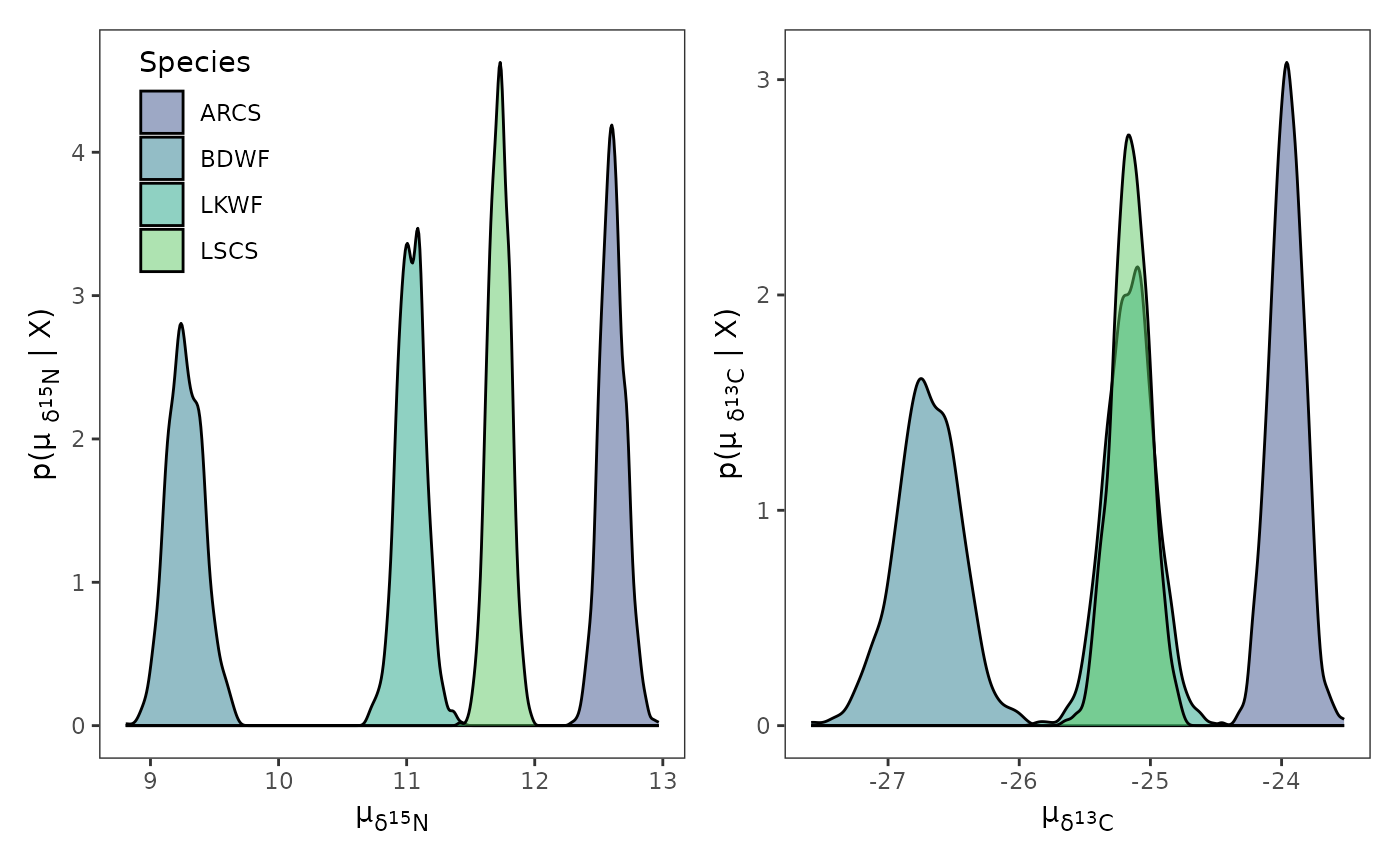
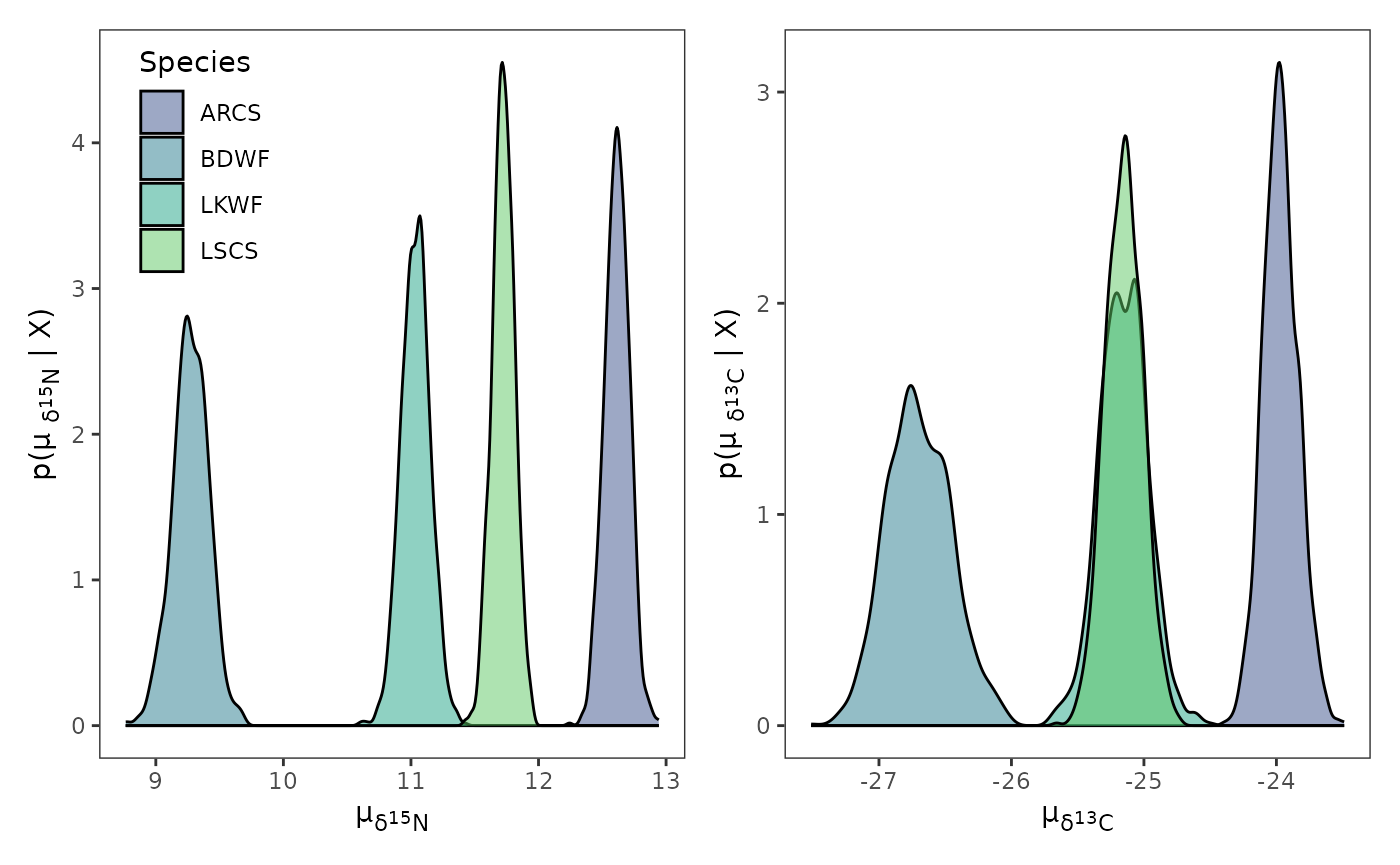
Deploying to gh-pages from @ benjaminhlina/nichetools@5e8c7eb0fe7763667dbc332bf1a5b6cc1b0e24cb 🚀

diff --git a/reference/extract_mu.html b/reference/extract_mu.html
@@ -1,7 +1,9 @@
 <!DOCTYPE html>
-<!-- Generated by pkgdown: do not edit by hand --><html lang="en"><head><meta http-equiv="Content-Type" content="text/html; charset=UTF-8"><meta charset="utf-8"><meta http-equiv="X-UA-Compatible" content="IE=edge"><meta name="viewport" content="width=device-width, initial-scale=1, shrink-to-fit=no"><meta name="description" content="Extract Bayesian estimates of \(\mu\) from the function niw.post() in the package
-nicheROVER."><title>extract \(\mu\) — extract_mu • nichetools</title><script src="../deps/jquery-3.6.0/jquery-3.6.0.min.js"></script><meta name="viewport" content="width=device-width, initial-scale=1, shrink-to-fit=no"><link href="../deps/bootstrap-5.3.1/bootstrap.min.css" rel="stylesheet"><script src="../deps/bootstrap-5.3.1/bootstrap.bundle.min.js"></script><!-- Font Awesome icons --><link rel="stylesheet" href="https://cdnjs.cloudflare.com/ajax/libs/font-awesome/5.12.1/css/all.min.css" integrity="sha256-mmgLkCYLUQbXn0B1SRqzHar6dCnv9oZFPEC1g1cwlkk=" crossorigin="anonymous"><link rel="stylesheet" href="https://cdnjs.cloudflare.com/ajax/libs/font-awesome/5.12.1/css/v4-shims.min.css" integrity="sha256-wZjR52fzng1pJHwx4aV2AO3yyTOXrcDW7jBpJtTwVxw=" crossorigin="anonymous"><!-- bootstrap-toc --><script src="https://cdn.jsdelivr.net/gh/afeld/bootstrap-toc@v1.0.1/dist/bootstrap-toc.min.js" integrity="sha256-4veVQbu7//Lk5TSmc7YV48MxtMy98e26cf5MrgZYnwo=" crossorigin="anonymous"></script><!-- headroom.js --><script src="https://cdnjs.cloudflare.com/ajax/libs/headroom/0.11.0/headroom.min.js" integrity="sha256-AsUX4SJE1+yuDu5+mAVzJbuYNPHj/WroHuZ8Ir/CkE0=" crossorigin="anonymous"></script><script src="https://cdnjs.cloudflare.com/ajax/libs/headroom/0.11.0/jQuery.headroom.min.js" integrity="sha256-ZX/yNShbjqsohH1k95liqY9Gd8uOiE1S4vZc+9KQ1K4=" crossorigin="anonymous"></script><!-- clipboard.js --><script src="https://cdnjs.cloudflare.com/ajax/libs/clipboard.js/2.0.11/clipboard.min.js" integrity="sha512-7O5pXpc0oCRrxk8RUfDYFgn0nO1t+jLuIOQdOMRp4APB7uZ4vSjspzp5y6YDtDs4VzUSTbWzBFZ/LKJhnyFOKw==" crossorigin="anonymous" referrerpolicy="no-referrer"></script><!-- search --><script src="https://cdnjs.cloudflare.com/ajax/libs/fuse.js/6.4.6/fuse.js" integrity="sha512-zv6Ywkjyktsohkbp9bb45V6tEMoWhzFzXis+LrMehmJZZSys19Yxf1dopHx7WzIKxr5tK2dVcYmaCk2uqdjF4A==" crossorigin="anonymous"></script><script src="https://cdnjs.cloudflare.com/ajax/libs/autocomplete.js/0.38.0/autocomplete.jquery.min.js" integrity="sha512-GU9ayf+66Xx2TmpxqJpliWbT5PiGYxpaG8rfnBEk1LL8l1KGkRShhngwdXK1UgqhAzWpZHSiYPc09/NwDQIGyg==" crossorigin="anonymous"></script><script src="https://cdnjs.cloudflare.com/ajax/libs/mark.js/8.11.1/mark.min.js" integrity="sha512-5CYOlHXGh6QpOFA/TeTylKLWfB3ftPsde7AnmhuitiTX4K5SqCLBeKro6sPS8ilsz1Q4NRx3v8Ko2IBiszzdww==" crossorigin="anonymous"></script><!-- pkgdown --><script src="../pkgdown.js"></script><meta property="og:title" content="extract \(\mu\) — extract_mu"><meta property="og:description" content="Extract Bayesian estimates of \(\mu\) from the function niw.post() in the package
-nicheROVER."><!-- mathjax --><script src="https://cdnjs.cloudflare.com/ajax/libs/mathjax/2.7.5/MathJax.js" integrity="sha256-nvJJv9wWKEm88qvoQl9ekL2J+k/RWIsaSScxxlsrv8k=" crossorigin="anonymous"></script><script src="https://cdnjs.cloudflare.com/ajax/libs/mathjax/2.7.5/config/TeX-AMS-MML_HTMLorMML.js" integrity="sha256-84DKXVJXs0/F8OTMzX4UR909+jtl4G7SPypPavF+GfA=" crossorigin="anonymous"></script><!--[if lt IE 9]>
+<!-- Generated by pkgdown: do not edit by hand --><html lang="en"><head><meta http-equiv="Content-Type" content="text/html; charset=UTF-8"><meta charset="utf-8"><meta http-equiv="X-UA-Compatible" content="IE=edge"><meta name="viewport" content="width=device-width, initial-scale=1, shrink-to-fit=no"><meta name="description" content="Extract Bayesian estimates of \(\mu\) from data objects created by
+nicheROVER or
+SIBER.."><title>extract \(\mu\) — extract_mu • nichetools</title><script src="../deps/jquery-3.6.0/jquery-3.6.0.min.js"></script><meta name="viewport" content="width=device-width, initial-scale=1, shrink-to-fit=no"><link href="../deps/bootstrap-5.3.1/bootstrap.min.css" rel="stylesheet"><script src="../deps/bootstrap-5.3.1/bootstrap.bundle.min.js"></script><!-- Font Awesome icons --><link rel="stylesheet" href="https://cdnjs.cloudflare.com/ajax/libs/font-awesome/5.12.1/css/all.min.css" integrity="sha256-mmgLkCYLUQbXn0B1SRqzHar6dCnv9oZFPEC1g1cwlkk=" crossorigin="anonymous"><link rel="stylesheet" href="https://cdnjs.cloudflare.com/ajax/libs/font-awesome/5.12.1/css/v4-shims.min.css" integrity="sha256-wZjR52fzng1pJHwx4aV2AO3yyTOXrcDW7jBpJtTwVxw=" crossorigin="anonymous"><!-- bootstrap-toc --><script src="https://cdn.jsdelivr.net/gh/afeld/bootstrap-toc@v1.0.1/dist/bootstrap-toc.min.js" integrity="sha256-4veVQbu7//Lk5TSmc7YV48MxtMy98e26cf5MrgZYnwo=" crossorigin="anonymous"></script><!-- headroom.js --><script src="https://cdnjs.cloudflare.com/ajax/libs/headroom/0.11.0/headroom.min.js" integrity="sha256-AsUX4SJE1+yuDu5+mAVzJbuYNPHj/WroHuZ8Ir/CkE0=" crossorigin="anonymous"></script><script src="https://cdnjs.cloudflare.com/ajax/libs/headroom/0.11.0/jQuery.headroom.min.js" integrity="sha256-ZX/yNShbjqsohH1k95liqY9Gd8uOiE1S4vZc+9KQ1K4=" crossorigin="anonymous"></script><!-- clipboard.js --><script src="https://cdnjs.cloudflare.com/ajax/libs/clipboard.js/2.0.11/clipboard.min.js" integrity="sha512-7O5pXpc0oCRrxk8RUfDYFgn0nO1t+jLuIOQdOMRp4APB7uZ4vSjspzp5y6YDtDs4VzUSTbWzBFZ/LKJhnyFOKw==" crossorigin="anonymous" referrerpolicy="no-referrer"></script><!-- search --><script src="https://cdnjs.cloudflare.com/ajax/libs/fuse.js/6.4.6/fuse.js" integrity="sha512-zv6Ywkjyktsohkbp9bb45V6tEMoWhzFzXis+LrMehmJZZSys19Yxf1dopHx7WzIKxr5tK2dVcYmaCk2uqdjF4A==" crossorigin="anonymous"></script><script src="https://cdnjs.cloudflare.com/ajax/libs/autocomplete.js/0.38.0/autocomplete.jquery.min.js" integrity="sha512-GU9ayf+66Xx2TmpxqJpliWbT5PiGYxpaG8rfnBEk1LL8l1KGkRShhngwdXK1UgqhAzWpZHSiYPc09/NwDQIGyg==" crossorigin="anonymous"></script><script src="https://cdnjs.cloudflare.com/ajax/libs/mark.js/8.11.1/mark.min.js" integrity="sha512-5CYOlHXGh6QpOFA/TeTylKLWfB3ftPsde7AnmhuitiTX4K5SqCLBeKro6sPS8ilsz1Q4NRx3v8Ko2IBiszzdww==" crossorigin="anonymous"></script><!-- pkgdown --><script src="../pkgdown.js"></script><meta property="og:title" content="extract \(\mu\) — extract_mu"><meta property="og:description" content="Extract Bayesian estimates of \(\mu\) from data objects created by
+nicheROVER or
+SIBER.."><!-- mathjax --><script src="https://cdnjs.cloudflare.com/ajax/libs/mathjax/2.7.5/MathJax.js" integrity="sha256-nvJJv9wWKEm88qvoQl9ekL2J+k/RWIsaSScxxlsrv8k=" crossorigin="anonymous"></script><script src="https://cdnjs.cloudflare.com/ajax/libs/mathjax/2.7.5/config/TeX-AMS-MML_HTMLorMML.js" integrity="sha256-84DKXVJXs0/F8OTMzX4UR909+jtl4G7SPypPavF+GfA=" crossorigin="anonymous"></script><!--[if lt IE 9]>
 <script src="https://oss.maxcdn.com/html5shiv/3.7.3/html5shiv.min.js"></script>
 <script src="https://oss.maxcdn.com/respond/1.4.2/respond.min.js"></script>
 <![endif]--></head><body>
@@ -48,24 +50,49 @@ nicheROVER."><!-- mathjax --><script src="https://cdnjs.cloudflare.com/ajax/libs
     </div>
 
     <div class="ref-description section level2">
-    <p>Extract Bayesian estimates of \(\mu\) from the function <code>niw.post()</code> in the package
-<a href="https://cran.r-project.org/web/packages/nicheROVER/index.html" class="external-link">nicheROVER</a>.</p>
+    <p>Extract Bayesian estimates of \(\mu\) from data objects created by
+<a href="https://cran.r-project.org/web/packages/nicheROVER/index.html" class="external-link">nicheROVER</a> or
+<a href="https://cran.r-project.org/web/packages/SIBER/index.html" class="external-link">SIBER</a>..</p>
     </div>
 
     <div class="section level2">
     <h2 id="ref-usage">Usage<a class="anchor" aria-label="anchor" href="#ref-usage"></a></h2>
-    <div class="sourceCode"><pre class="sourceCode r"><code><span><span class="fu">extract_mu</span><span class="op">(</span><span class="va">data</span>, format <span class="op">=</span> <span class="st">"long"</span><span class="op">)</span></span></code></pre></div>
+    <div class="sourceCode"><pre class="sourceCode r"><code><span><span class="fu">extract_mu</span><span class="op">(</span></span>
+<span>  <span class="va">data</span>,</span>
+<span>  pkg <span class="op">=</span> <span class="cn">NULL</span>,</span>
+<span>  isotope_a <span class="op">=</span> <span class="cn">NULL</span>,</span>
+<span>  isotope_b <span class="op">=</span> <span class="cn">NULL</span>,</span>
+<span>  data_format <span class="op">=</span> <span class="cn">NULL</span></span>
+<span><span class="op">)</span></span></code></pre></div>
     </div>
 
     <div class="section level2">
     <h2 id="arguments">Arguments<a class="anchor" aria-label="anchor" href="#arguments"></a></h2>
     <dl><dt>data</dt>
-<dd><p>a <code>list</code> created by the function <code>niw.post()</code> in the package
-<a href="https://cran.r-project.org/web/packages/nicheROVER/index.html" class="external-link">nicheROVER</a>.</p></dd>
+<dd><p>a <code>list</code> created by the function <code>niw.post()</code> or <code>siberMVN()</code>
+in the package
+<a href="https://cran.r-project.org/web/packages/nicheROVER/index.html" class="external-link">nicheROVER</a>
+or <a href="https://cran.r-project.org/web/packages/SIBER/index.html" class="external-link">SIBER</a>, respectfully.</p></dd>
 
 
-<dt>format</dt>
-<dd><p>a <code>character</code> that decided whether the returned object is
+<dt>pkg</dt>
+<dd><p>a <code>character</code> string that is the name of the package that
+you're using. Defaults to <code>"nicheROVER"</code>.
+Alternatively the user can supply the argument with <code>"SIBER"</code>.</p></dd>
+
+
+<dt>isotope_a</dt>
+<dd><p>a <code>character</code> string to change the column name
+of the first isotope used in the analysis. Defaults to <code>"d13c"</code>.</p></dd>
+
+
+<dt>isotope_b</dt>
+<dd><p>a <code>character</code> string to change the name of second isotope
+used in the analysis. Defaults to <code>"d15n"</code>.</p></dd>
+
+
+<dt>data_format</dt>
+<dd><p>a <code>character</code> string that decided whether the returned object is
 in long or wide format. Default is <code>"long"</code>, with the alternative supplied
 being <code>"wide"</code>.</p></dd>
 
@@ -74,16 +101,19 @@ being <code>"wide"</code>.</p></dd>
     <h2 id="value">Value<a class="anchor" aria-label="anchor" href="#value"></a></h2>
     
 
-<p>Returns a <code>tibble</code> of extracted estimates of \(\mu\) that are created by
-the function <code>niw.post()</code> in the package
+<p>Returns a <code>tibble</code> of extracted estimates of \(\mu\) created by the
+function <code>niw.post()</code> or <code>siberMVN()</code> in the packages
 <a href="https://cran.r-project.org/web/packages/nicheROVER/index.html" class="external-link">nicheROVER</a>.
-The <code>tibble</code> will contain five columns in the following order, <code>metric</code>,
+and <a href="https://cran.r-project.org/web/packages/SIBER/index.html" class="external-link">SIBER</a>.</p>
+
+
+<p>The <code>tibble</code> will contain five columns in the following order, <code>metric</code>,
 <code>sample_name</code>, <code>sample_number</code>, and the names of the isotope
 columns supplied to <code>niw.post()</code> (e.g., <code>d15n</code> and <code>d13c</code>).</p>
     </div>
     <div class="section level2">
     <h2 id="see-also">See also<a class="anchor" aria-label="anchor" href="#see-also"></a></h2>
-    <div class="dont-index"><p><code><a href="https://rdrr.io/pkg/nicheROVER/man/niw.post.html" class="external-link">nicheROVER::niw.post()</a></code></p></div>
+    <div class="dont-index"><p><code><a href="https://rdrr.io/pkg/nicheROVER/man/niw.post.html" class="external-link">nicheROVER::niw.post()</a></code> and <code><a href="https://rdrr.io/pkg/SIBER/man/siberMVN.html" class="external-link">SIBER::siberMVN()</a></code></p></div>
     </div>
 
     <div class="section level2">
@@ -94,16 +124,16 @@ columns supplied to <code>niw.post()</code> (e.g., <code>d15n</code> and <code>d
 <span class="r-out co"><span class="r-pr">#&gt;</span> <span style="color: #949494;"># A tibble: 8,000 × 5</span></span>
 <span class="r-out co"><span class="r-pr">#&gt;</span>    metric sample_name sample_number isotope mu_est</span>
 <span class="r-out co"><span class="r-pr">#&gt;</span>    <span style="color: #949494; font-style: italic;">&lt;chr&gt;</span>  <span style="color: #949494; font-style: italic;">&lt;chr&gt;</span>               <span style="color: #949494; font-style: italic;">&lt;int&gt;</span> <span style="color: #949494; font-style: italic;">&lt;chr&gt;</span>    <span style="color: #949494; font-style: italic;">&lt;dbl&gt;</span></span>
-<span class="r-out co"><span class="r-pr">#&gt;</span> <span style="color: #BCBCBC;"> 1</span> mu     ARCS                    1 d15n      12.6</span>
-<span class="r-out co"><span class="r-pr">#&gt;</span> <span style="color: #BCBCBC;"> 2</span> mu     ARCS                    1 d13c     -<span style="color: #BB0000;">24.0</span></span>
-<span class="r-out co"><span class="r-pr">#&gt;</span> <span style="color: #BCBCBC;"> 3</span> mu     ARCS                    2 d15n      12.7</span>
-<span class="r-out co"><span class="r-pr">#&gt;</span> <span style="color: #BCBCBC;"> 4</span> mu     ARCS                    2 d13c     -<span style="color: #BB0000;">23.9</span></span>
-<span class="r-out co"><span class="r-pr">#&gt;</span> <span style="color: #BCBCBC;"> 5</span> mu     ARCS                    3 d15n      12.6</span>
-<span class="r-out co"><span class="r-pr">#&gt;</span> <span style="color: #BCBCBC;"> 6</span> mu     ARCS                    3 d13c     -<span style="color: #BB0000;">23.8</span></span>
-<span class="r-out co"><span class="r-pr">#&gt;</span> <span style="color: #BCBCBC;"> 7</span> mu     ARCS                    4 d15n      12.5</span>
-<span class="r-out co"><span class="r-pr">#&gt;</span> <span style="color: #BCBCBC;"> 8</span> mu     ARCS                    4 d13c     -<span style="color: #BB0000;">23.9</span></span>
-<span class="r-out co"><span class="r-pr">#&gt;</span> <span style="color: #BCBCBC;"> 9</span> mu     ARCS                    5 d15n      12.4</span>
-<span class="r-out co"><span class="r-pr">#&gt;</span> <span style="color: #BCBCBC;">10</span> mu     ARCS                    5 d13c     -<span style="color: #BB0000;">24.0</span></span>
+<span class="r-out co"><span class="r-pr">#&gt;</span> <span style="color: #BCBCBC;"> 1</span> mu     ARCS                    1 d13c     -<span style="color: #BB0000;">23.8</span></span>
+<span class="r-out co"><span class="r-pr">#&gt;</span> <span style="color: #BCBCBC;"> 2</span> mu     ARCS                    1 d15n      12.6</span>
+<span class="r-out co"><span class="r-pr">#&gt;</span> <span style="color: #BCBCBC;"> 3</span> mu     ARCS                    2 d13c     -<span style="color: #BB0000;">23.7</span></span>
+<span class="r-out co"><span class="r-pr">#&gt;</span> <span style="color: #BCBCBC;"> 4</span> mu     ARCS                    2 d15n      12.6</span>
+<span class="r-out co"><span class="r-pr">#&gt;</span> <span style="color: #BCBCBC;"> 5</span> mu     ARCS                    3 d13c     -<span style="color: #BB0000;">24.2</span></span>
+<span class="r-out co"><span class="r-pr">#&gt;</span> <span style="color: #BCBCBC;"> 6</span> mu     ARCS                    3 d15n      12.4</span>
+<span class="r-out co"><span class="r-pr">#&gt;</span> <span style="color: #BCBCBC;"> 7</span> mu     ARCS                    4 d13c     -<span style="color: #BB0000;">24.1</span></span>
+<span class="r-out co"><span class="r-pr">#&gt;</span> <span style="color: #BCBCBC;"> 8</span> mu     ARCS                    4 d15n      12.7</span>
+<span class="r-out co"><span class="r-pr">#&gt;</span> <span style="color: #BCBCBC;"> 9</span> mu     ARCS                    5 d13c     -<span style="color: #BB0000;">23.9</span></span>
+<span class="r-out co"><span class="r-pr">#&gt;</span> <span style="color: #BCBCBC;">10</span> mu     ARCS                    5 d15n      12.6</span>
 <span class="r-out co"><span class="r-pr">#&gt;</span> <span style="color: #949494;"># ℹ 7,990 more rows</span></span>
 <span class="r-in"><span></span></span>
 </code></pre></div>

diff --git a/reference/extract_sigma.html b/reference/extract_sigma.html
@@ -83,12 +83,12 @@ Alternatively the user can supply the argument with <code>"SIBER"</code>.</p></d
 
 <dt>isotope_a</dt>
 <dd><p>a <code>character</code> string to change the column name
-of the first isotope used in the analysis. Defaults to <code>"d15n"</code>.</p></dd>
+of the first isotope used in the analysis. Defaults to <code>"d13c"</code>.</p></dd>
 
 
 <dt>isotope_b</dt>
 <dd><p>a <code>character</code> string to change the name of second isotope
-used in the analysis. Defaults to <code>"d13c"</code>.</p></dd>
+used in the analysis. Defaults to <code>"d15n"</code>.</p></dd>
 
 
 <dt>data_format</dt>
@@ -124,18 +124,18 @@ and the posterior sample for \(\Sigma\) (i.e., <code>post_sample</code>).</p>
 <span class="r-in"><span>data <span class="op">=</span> <span class="va">niw_fish_post</span></span></span>
 <span class="r-in"><span><span class="op">)</span></span></span>
 <span class="r-out co"><span class="r-pr">#&gt;</span> <span style="color: #949494;"># A tibble: 8,000 × 6</span></span>
-<span class="r-out co"><span class="r-pr">#&gt;</span>    metric sample_name isotope sample_number  d15n  d13c</span>
+<span class="r-out co"><span class="r-pr">#&gt;</span>    metric sample_name isotope sample_number  d13c  d15n</span>
 <span class="r-out co"><span class="r-pr">#&gt;</span>    <span style="color: #949494; font-style: italic;">&lt;chr&gt;</span>  <span style="color: #949494; font-style: italic;">&lt;chr&gt;</span>       <span style="color: #949494; font-style: italic;">&lt;chr&gt;</span>   <span style="color: #949494; font-style: italic;">&lt;chr&gt;</span>         <span style="color: #949494; font-style: italic;">&lt;dbl&gt;</span> <span style="color: #949494; font-style: italic;">&lt;dbl&gt;</span></span>
-<span class="r-out co"><span class="r-pr">#&gt;</span> <span style="color: #BCBCBC;"> 1</span> sigma  ARCS        d15n    1             0.501 0.216</span>
-<span class="r-out co"><span class="r-pr">#&gt;</span> <span style="color: #BCBCBC;"> 2</span> sigma  ARCS        d13c    1             0.216 1.07 </span>
-<span class="r-out co"><span class="r-pr">#&gt;</span> <span style="color: #BCBCBC;"> 3</span> sigma  ARCS        d15n    2             0.577 0.206</span>
-<span class="r-out co"><span class="r-pr">#&gt;</span> <span style="color: #BCBCBC;"> 4</span> sigma  ARCS        d13c    2             0.206 0.844</span>
-<span class="r-out co"><span class="r-pr">#&gt;</span> <span style="color: #BCBCBC;"> 5</span> sigma  ARCS        d15n    3             0.725 0.449</span>
-<span class="r-out co"><span class="r-pr">#&gt;</span> <span style="color: #BCBCBC;"> 6</span> sigma  ARCS        d13c    3             0.449 1.48 </span>
-<span class="r-out co"><span class="r-pr">#&gt;</span> <span style="color: #BCBCBC;"> 7</span> sigma  ARCS        d15n    4             0.888 0.324</span>
-<span class="r-out co"><span class="r-pr">#&gt;</span> <span style="color: #BCBCBC;"> 8</span> sigma  ARCS        d13c    4             0.324 1.07 </span>
-<span class="r-out co"><span class="r-pr">#&gt;</span> <span style="color: #BCBCBC;"> 9</span> sigma  ARCS        d15n    5             0.681 0.266</span>
-<span class="r-out co"><span class="r-pr">#&gt;</span> <span style="color: #BCBCBC;">10</span> sigma  ARCS        d13c    5             0.266 0.970</span>
+<span class="r-out co"><span class="r-pr">#&gt;</span> <span style="color: #BCBCBC;"> 1</span> sigma  ARCS        d13c    1             1.07  0.305</span>
+<span class="r-out co"><span class="r-pr">#&gt;</span> <span style="color: #BCBCBC;"> 2</span> sigma  ARCS        d15n    1             0.305 0.571</span>
+<span class="r-out co"><span class="r-pr">#&gt;</span> <span style="color: #BCBCBC;"> 3</span> sigma  ARCS        d13c    2             1.01  0.221</span>
+<span class="r-out co"><span class="r-pr">#&gt;</span> <span style="color: #BCBCBC;"> 4</span> sigma  ARCS        d15n    2             0.221 0.657</span>
+<span class="r-out co"><span class="r-pr">#&gt;</span> <span style="color: #BCBCBC;"> 5</span> sigma  ARCS        d13c    3             1.21  0.486</span>
+<span class="r-out co"><span class="r-pr">#&gt;</span> <span style="color: #BCBCBC;"> 6</span> sigma  ARCS        d15n    3             0.486 0.616</span>
+<span class="r-out co"><span class="r-pr">#&gt;</span> <span style="color: #BCBCBC;"> 7</span> sigma  ARCS        d13c    4             1.14  0.352</span>
+<span class="r-out co"><span class="r-pr">#&gt;</span> <span style="color: #BCBCBC;"> 8</span> sigma  ARCS        d15n    4             0.352 0.570</span>
+<span class="r-out co"><span class="r-pr">#&gt;</span> <span style="color: #BCBCBC;"> 9</span> sigma  ARCS        d13c    5             0.788 0.376</span>
+<span class="r-out co"><span class="r-pr">#&gt;</span> <span style="color: #BCBCBC;">10</span> sigma  ARCS        d15n    5             0.376 0.849</span>
 <span class="r-out co"><span class="r-pr">#&gt;</span> <span style="color: #949494;"># ℹ 7,990 more rows</span></span>
 <span class="r-in"><span></span></span>
 <span class="r-in"><span><span class="fu">extract_sigma</span><span class="op">(</span></span></span>
@@ -143,18 +143,18 @@ and the posterior sample for \(\Sigma\) (i.e., <code>post_sample</code>).</p>
 <span class="r-in"><span>pkg <span class="op">=</span> <span class="st">"SIBER"</span></span></span>
 <span class="r-in"><span><span class="op">)</span></span></span>
 <span class="r-out co"><span class="r-pr">#&gt;</span> <span style="color: #949494;"># A tibble: 48,000 × 6</span></span>
-<span class="r-out co"><span class="r-pr">#&gt;</span>    metric sample_name isotope sample_number   d15n   d13c</span>
+<span class="r-out co"><span class="r-pr">#&gt;</span>    metric sample_name isotope sample_number   d13c   d15n</span>
 <span class="r-out co"><span class="r-pr">#&gt;</span>    <span style="color: #949494; font-style: italic;">&lt;chr&gt;</span>  <span style="color: #949494; font-style: italic;">&lt;chr&gt;</span>       <span style="color: #949494; font-style: italic;">&lt;chr&gt;</span>           <span style="color: #949494; font-style: italic;">&lt;int&gt;</span>  <span style="color: #949494; font-style: italic;">&lt;dbl&gt;</span>  <span style="color: #949494; font-style: italic;">&lt;dbl&gt;</span></span>
-<span class="r-out co"><span class="r-pr">#&gt;</span> <span style="color: #BCBCBC;"> 1</span> sigma  1.1         d15n                1  1.47  -<span style="color: #BB0000;">0.862</span></span>
-<span class="r-out co"><span class="r-pr">#&gt;</span> <span style="color: #BCBCBC;"> 2</span> sigma  1.1         d13c                1 -<span style="color: #BB0000;">0.862</span>  2.35 </span>
-<span class="r-out co"><span class="r-pr">#&gt;</span> <span style="color: #BCBCBC;"> 3</span> sigma  1.1         d15n                2  1.92  -<span style="color: #BB0000;">1.39</span> </span>
-<span class="r-out co"><span class="r-pr">#&gt;</span> <span style="color: #BCBCBC;"> 4</span> sigma  1.1         d13c                2 -<span style="color: #BB0000;">1.39</span>   2.98 </span>
-<span class="r-out co"><span class="r-pr">#&gt;</span> <span style="color: #BCBCBC;"> 5</span> sigma  1.1         d15n                3  1.40  -<span style="color: #BB0000;">1.18</span> </span>
-<span class="r-out co"><span class="r-pr">#&gt;</span> <span style="color: #BCBCBC;"> 6</span> sigma  1.1         d13c                3 -<span style="color: #BB0000;">1.18</span>   4.95 </span>
-<span class="r-out co"><span class="r-pr">#&gt;</span> <span style="color: #BCBCBC;"> 7</span> sigma  1.1         d15n                4  1.83  -<span style="color: #BB0000;">1.61</span> </span>
-<span class="r-out co"><span class="r-pr">#&gt;</span> <span style="color: #BCBCBC;"> 8</span> sigma  1.1         d13c                4 -<span style="color: #BB0000;">1.61</span>   3.14 </span>
-<span class="r-out co"><span class="r-pr">#&gt;</span> <span style="color: #BCBCBC;"> 9</span> sigma  1.1         d15n                5  1.88  -<span style="color: #BB0000;">0.969</span></span>
-<span class="r-out co"><span class="r-pr">#&gt;</span> <span style="color: #BCBCBC;">10</span> sigma  1.1         d13c                5 -<span style="color: #BB0000;">0.969</span>  2.48 </span>
+<span class="r-out co"><span class="r-pr">#&gt;</span> <span style="color: #BCBCBC;"> 1</span> sigma  1.1         d13c                1  1.47  -<span style="color: #BB0000;">0.862</span></span>
+<span class="r-out co"><span class="r-pr">#&gt;</span> <span style="color: #BCBCBC;"> 2</span> sigma  1.1         d15n                1 -<span style="color: #BB0000;">0.862</span>  2.35 </span>
+<span class="r-out co"><span class="r-pr">#&gt;</span> <span style="color: #BCBCBC;"> 3</span> sigma  1.1         d13c                2  1.92  -<span style="color: #BB0000;">1.39</span> </span>
+<span class="r-out co"><span class="r-pr">#&gt;</span> <span style="color: #BCBCBC;"> 4</span> sigma  1.1         d15n                2 -<span style="color: #BB0000;">1.39</span>   2.98 </span>
+<span class="r-out co"><span class="r-pr">#&gt;</span> <span style="color: #BCBCBC;"> 5</span> sigma  1.1         d13c                3  1.40  -<span style="color: #BB0000;">1.18</span> </span>
+<span class="r-out co"><span class="r-pr">#&gt;</span> <span style="color: #BCBCBC;"> 6</span> sigma  1.1         d15n                3 -<span style="color: #BB0000;">1.18</span>   4.95 </span>
+<span class="r-out co"><span class="r-pr">#&gt;</span> <span style="color: #BCBCBC;"> 7</span> sigma  1.1         d13c                4  1.83  -<span style="color: #BB0000;">1.61</span> </span>
+<span class="r-out co"><span class="r-pr">#&gt;</span> <span style="color: #BCBCBC;"> 8</span> sigma  1.1         d15n                4 -<span style="color: #BB0000;">1.61</span>   3.14 </span>
+<span class="r-out co"><span class="r-pr">#&gt;</span> <span style="color: #BCBCBC;"> 9</span> sigma  1.1         d13c                5  1.88  -<span style="color: #BB0000;">0.969</span></span>
+<span class="r-out co"><span class="r-pr">#&gt;</span> <span style="color: #BCBCBC;">10</span> sigma  1.1         d15n                5 -<span style="color: #BB0000;">0.969</span>  2.48 </span>
 <span class="r-out co"><span class="r-pr">#&gt;</span> <span style="color: #949494;"># ℹ 47,990 more rows</span></span>
 <span class="r-in"><span></span></span>
 </code></pre></div>

diff --git a/reference/extract_overlap.html b/reference/extract_overlap.html
@@ -97,15 +97,15 @@ following function <code>overlap()</code> in the package
 <span class="r-out co"><span class="r-pr">#&gt;</span>    sample_name_a    id sample_name_b sample_number niche_overlap</span>
 <span class="r-out co"><span class="r-pr">#&gt;</span>    <span style="color: #949494; font-style: italic;">&lt;chr&gt;</span>         <span style="color: #949494; font-style: italic;">&lt;int&gt;</span> <span style="color: #949494; font-style: italic;">&lt;chr&gt;</span>         <span style="color: #949494; font-style: italic;">&lt;chr&gt;</span>                 <span style="color: #949494; font-style: italic;">&lt;dbl&gt;</span></span>
 <span class="r-out co"><span class="r-pr">#&gt;</span> <span style="color: #BCBCBC;"> 1</span> ARCS              1 ARCS          1                    <span style="color: #BB0000;">NA</span>    </span>
-<span class="r-out co"><span class="r-pr">#&gt;</span> <span style="color: #BCBCBC;"> 2</span> ARCS              1 BDWF          1                     0.183</span>
-<span class="r-out co"><span class="r-pr">#&gt;</span> <span style="color: #BCBCBC;"> 3</span> ARCS              1 LKWF          1                     0.722</span>
-<span class="r-out co"><span class="r-pr">#&gt;</span> <span style="color: #BCBCBC;"> 4</span> ARCS              1 LSCS          1                     0.814</span>
+<span class="r-out co"><span class="r-pr">#&gt;</span> <span style="color: #BCBCBC;"> 2</span> ARCS              1 BDWF          1                     0.073</span>
+<span class="r-out co"><span class="r-pr">#&gt;</span> <span style="color: #BCBCBC;"> 3</span> ARCS              1 LKWF          1                     0.787</span>
+<span class="r-out co"><span class="r-pr">#&gt;</span> <span style="color: #BCBCBC;"> 4</span> ARCS              1 LSCS          1                     0.737</span>
 <span class="r-out co"><span class="r-pr">#&gt;</span> <span style="color: #BCBCBC;"> 5</span> ARCS              1 ARCS          2                    <span style="color: #BB0000;">NA</span>    </span>
-<span class="r-out co"><span class="r-pr">#&gt;</span> <span style="color: #BCBCBC;"> 6</span> ARCS              1 BDWF          2                     0.183</span>
-<span class="r-out co"><span class="r-pr">#&gt;</span> <span style="color: #BCBCBC;"> 7</span> ARCS              1 LKWF          2                     0.755</span>
-<span class="r-out co"><span class="r-pr">#&gt;</span> <span style="color: #BCBCBC;"> 8</span> ARCS              1 LSCS          2                     0.816</span>
+<span class="r-out co"><span class="r-pr">#&gt;</span> <span style="color: #BCBCBC;"> 6</span> ARCS              1 BDWF          2                     0.049</span>
+<span class="r-out co"><span class="r-pr">#&gt;</span> <span style="color: #BCBCBC;"> 7</span> ARCS              1 LKWF          2                     0.484</span>
+<span class="r-out co"><span class="r-pr">#&gt;</span> <span style="color: #BCBCBC;"> 8</span> ARCS              1 LSCS          2                     0.671</span>
 <span class="r-out co"><span class="r-pr">#&gt;</span> <span style="color: #BCBCBC;"> 9</span> ARCS              1 ARCS          3                    <span style="color: #BB0000;">NA</span>    </span>
-<span class="r-out co"><span class="r-pr">#&gt;</span> <span style="color: #BCBCBC;">10</span> ARCS              1 BDWF          3                     0.076</span>
+<span class="r-out co"><span class="r-pr">#&gt;</span> <span style="color: #BCBCBC;">10</span> ARCS              1 BDWF          3                     0.095</span>
 <span class="r-out co"><span class="r-pr">#&gt;</span> <span style="color: #949494;"># ℹ 15,990 more rows</span></span>
 <span class="r-in"><span></span></span>
 </code></pre></div>

diff --git a/articles/using-nichetools-with-the-package-nicheROVER.html b/articles/using-nichetools-with-the-package-nicheROVER.html
@@ -153,7 +153,7 @@ distribution using Normal-Inverse-Wishart (NIW) priors.</p>
 <div class="sourceCode" id="cb4"><pre class="downlit sourceCode r">
 <code class="sourceCode R"><span><span class="va">fish_par</span> <span class="op">&lt;-</span> <span class="va">df</span> <span class="op"><a href="https://magrittr.tidyverse.org/reference/pipe.html" class="external-link">%&gt;%</a></span> </span>
 <span>  <span class="fu"><a href="https://rdrr.io/r/base/split.html" class="external-link">split</a></span><span class="op">(</span><span class="va">.</span><span class="op">$</span><span class="va">species</span><span class="op">)</span> <span class="op"><a href="https://magrittr.tidyverse.org/reference/pipe.html" class="external-link">%&gt;%</a></span> </span>
-<span>  <span class="fu"><a href="https://purrr.tidyverse.org/reference/map.html" class="external-link">map</a></span><span class="op">(</span><span class="op">~</span> <span class="fu"><a href="https://dplyr.tidyverse.org/reference/select.html" class="external-link">select</a></span><span class="op">(</span><span class="va">.</span>, <span class="va">d15n</span>, <span class="va">d13c</span><span class="op">)</span><span class="op">)</span> <span class="op"><a href="https://magrittr.tidyverse.org/reference/pipe.html" class="external-link">%&gt;%</a></span> </span>
+<span>  <span class="fu"><a href="https://purrr.tidyverse.org/reference/map.html" class="external-link">map</a></span><span class="op">(</span><span class="op">~</span> <span class="fu"><a href="https://dplyr.tidyverse.org/reference/select.html" class="external-link">select</a></span><span class="op">(</span><span class="va">.</span>, <span class="va">d13c</span>, <span class="va">d15n</span><span class="op">)</span><span class="op">)</span> <span class="op"><a href="https://magrittr.tidyverse.org/reference/pipe.html" class="external-link">%&gt;%</a></span> </span>
 <span>  <span class="fu"><a href="https://purrr.tidyverse.org/reference/map.html" class="external-link">map</a></span><span class="op">(</span><span class="op">~</span> <span class="fu"><a href="https://rdrr.io/pkg/nicheROVER/man/niw.post.html" class="external-link">niw.post</a></span><span class="op">(</span>nsample <span class="op">=</span> <span class="va">nsample</span>, X <span class="op">=</span> <span class="va">.</span><span class="op">)</span><span class="op">)</span></span></code></pre></div>
 </div>
 <div class="section level3">
@@ -323,7 +323,7 @@ process as with large sets of isotope data it is nice to know the time
 it takes for the function to work.</p>
 <div class="sourceCode" id="cb12"><pre class="downlit sourceCode r">
 <code class="sourceCode R"><span><span class="va">ellipse_df</span> <span class="op">&lt;-</span> <span class="fu"><a href="../reference/niche_ellipse.html">niche_ellipse</a></span><span class="op">(</span>dat_mu <span class="op">=</span> <span class="va">df_mu</span>, dat_sigma <span class="op">=</span> <span class="va">df_sigma</span><span class="op">)</span></span>
-<span><span class="co">#&gt; → Total time processing was 4.52 secs</span></span></code></pre></div>
+<span><span class="co">#&gt; → Total time processing was 4.56 secs</span></span></code></pre></div>
 <p>We will randomly sample 10 ellipses out of 1,000. You can change this
 but this seems pretty standard.</p>
 <div class="sourceCode" id="cb13"><pre class="downlit sourceCode r">

diff --git a/reference/extract_niche_size.html b/reference/extract_niche_size.html
@@ -97,16 +97,16 @@ probabilistic niche size. Default is 0.95.</p></dd>
 <span class="r-out co"><span class="r-pr">#&gt;</span> <span style="color: #949494;"># A tibble: 4,000 × 3</span></span>
 <span class="r-out co"><span class="r-pr">#&gt;</span>    sample_name id    niche_size</span>
 <span class="r-out co"><span class="r-pr">#&gt;</span>    <span style="color: #949494; font-style: italic;">&lt;chr&gt;</span>       <span style="color: #949494; font-style: italic;">&lt;chr&gt;</span>      <span style="color: #949494; font-style: italic;">&lt;dbl&gt;</span></span>
-<span class="r-out co"><span class="r-pr">#&gt;</span> <span style="color: #BCBCBC;"> 1</span> ARCS        1           13.2</span>
-<span class="r-out co"><span class="r-pr">#&gt;</span> <span style="color: #BCBCBC;"> 2</span> ARCS        2           12.5</span>
-<span class="r-out co"><span class="r-pr">#&gt;</span> <span style="color: #BCBCBC;"> 3</span> ARCS        3           17.6</span>
-<span class="r-out co"><span class="r-pr">#&gt;</span> <span style="color: #BCBCBC;"> 4</span> ARCS        4           17.3</span>
-<span class="r-out co"><span class="r-pr">#&gt;</span> <span style="color: #BCBCBC;"> 5</span> ARCS        5           14.5</span>
-<span class="r-out co"><span class="r-pr">#&gt;</span> <span style="color: #BCBCBC;"> 6</span> ARCS        6           18.6</span>
-<span class="r-out co"><span class="r-pr">#&gt;</span> <span style="color: #BCBCBC;"> 7</span> ARCS        7           12.5</span>
-<span class="r-out co"><span class="r-pr">#&gt;</span> <span style="color: #BCBCBC;"> 8</span> ARCS        8           16.5</span>
-<span class="r-out co"><span class="r-pr">#&gt;</span> <span style="color: #BCBCBC;"> 9</span> ARCS        9           13.8</span>
-<span class="r-out co"><span class="r-pr">#&gt;</span> <span style="color: #BCBCBC;">10</span> ARCS        10          13.6</span>
+<span class="r-out co"><span class="r-pr">#&gt;</span> <span style="color: #BCBCBC;"> 1</span> ARCS        1           13.6</span>
+<span class="r-out co"><span class="r-pr">#&gt;</span> <span style="color: #BCBCBC;"> 2</span> ARCS        2           14.8</span>
+<span class="r-out co"><span class="r-pr">#&gt;</span> <span style="color: #BCBCBC;"> 3</span> ARCS        3           13.4</span>
+<span class="r-out co"><span class="r-pr">#&gt;</span> <span style="color: #BCBCBC;"> 4</span> ARCS        4           13.6</span>
+<span class="r-out co"><span class="r-pr">#&gt;</span> <span style="color: #BCBCBC;"> 5</span> ARCS        5           13.7</span>
+<span class="r-out co"><span class="r-pr">#&gt;</span> <span style="color: #BCBCBC;"> 6</span> ARCS        6           13.2</span>
+<span class="r-out co"><span class="r-pr">#&gt;</span> <span style="color: #BCBCBC;"> 7</span> ARCS        7           18.3</span>
+<span class="r-out co"><span class="r-pr">#&gt;</span> <span style="color: #BCBCBC;"> 8</span> ARCS        8           13.9</span>
+<span class="r-out co"><span class="r-pr">#&gt;</span> <span style="color: #BCBCBC;"> 9</span> ARCS        9           14.3</span>
+<span class="r-out co"><span class="r-pr">#&gt;</span> <span style="color: #BCBCBC;">10</span> ARCS        10          14.3</span>
 <span class="r-out co"><span class="r-pr">#&gt;</span> <span style="color: #949494;"># ℹ 3,990 more rows</span></span>
 <span class="r-in"><span></span></span>
 <span class="r-in"><span></span></span>

diff --git a/reference/niche_ellipse.html b/reference/niche_ellipse.html
@@ -82,12 +82,12 @@ wide format. This can be produced using <code>sigma_extract()</code>.</p></dd>
 
 <dt>isotope_a</dt>
 <dd><p>character string that is the column name of the first
-isotope used in <code>dat_sigma</code>. Defaults to <code>"d15n"</code>.</p></dd>
+isotope used in <code>dat_sigma</code>. Defaults to <code>"d13c"</code>.</p></dd>
 
 
 <dt>isotope_b</dt>
 <dd><p>character string that is the column name of the second
-isotope used in <code>dat_sigma</code>. Defaults to <code>"d13c"</code>.</p></dd>
+isotope used in <code>dat_sigma</code>. Defaults to <code>"d15n"</code>.</p></dd>
 
 
 <dt>p_ell</dt>
